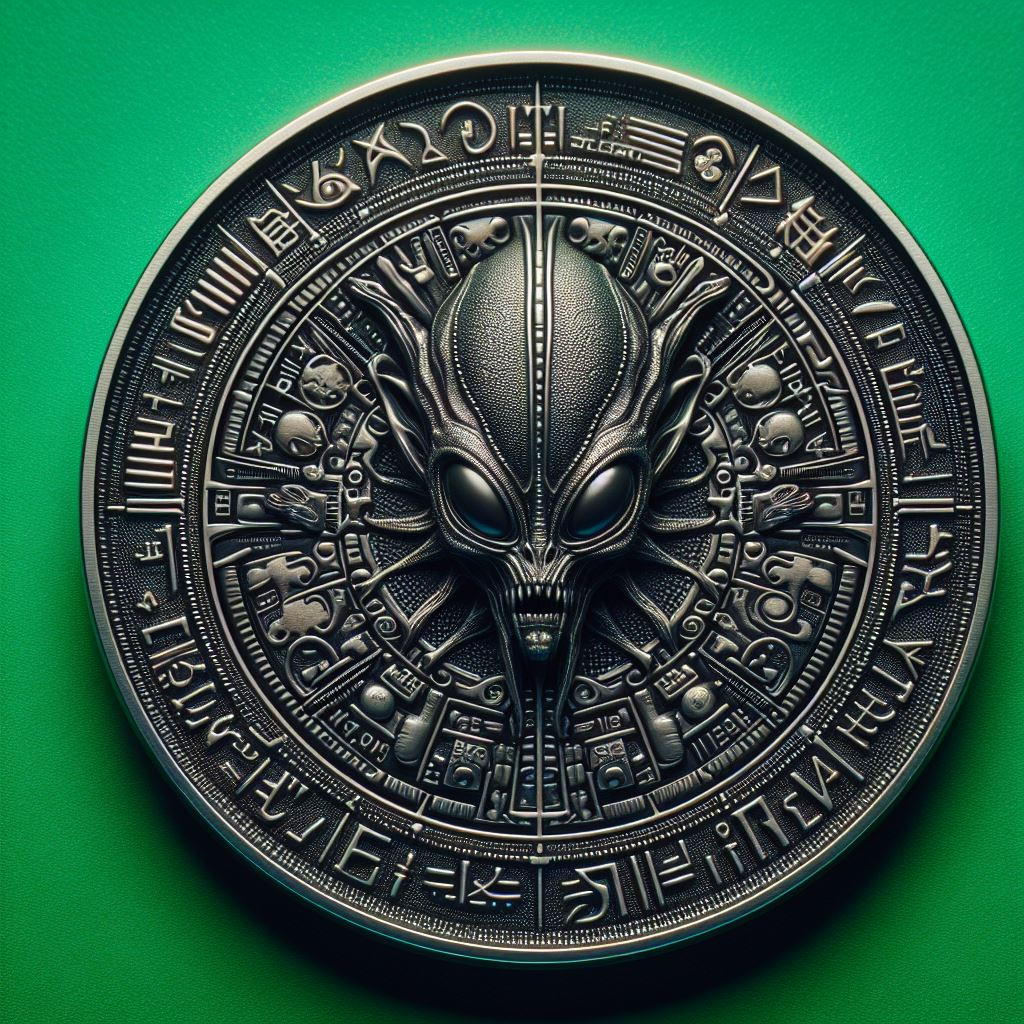
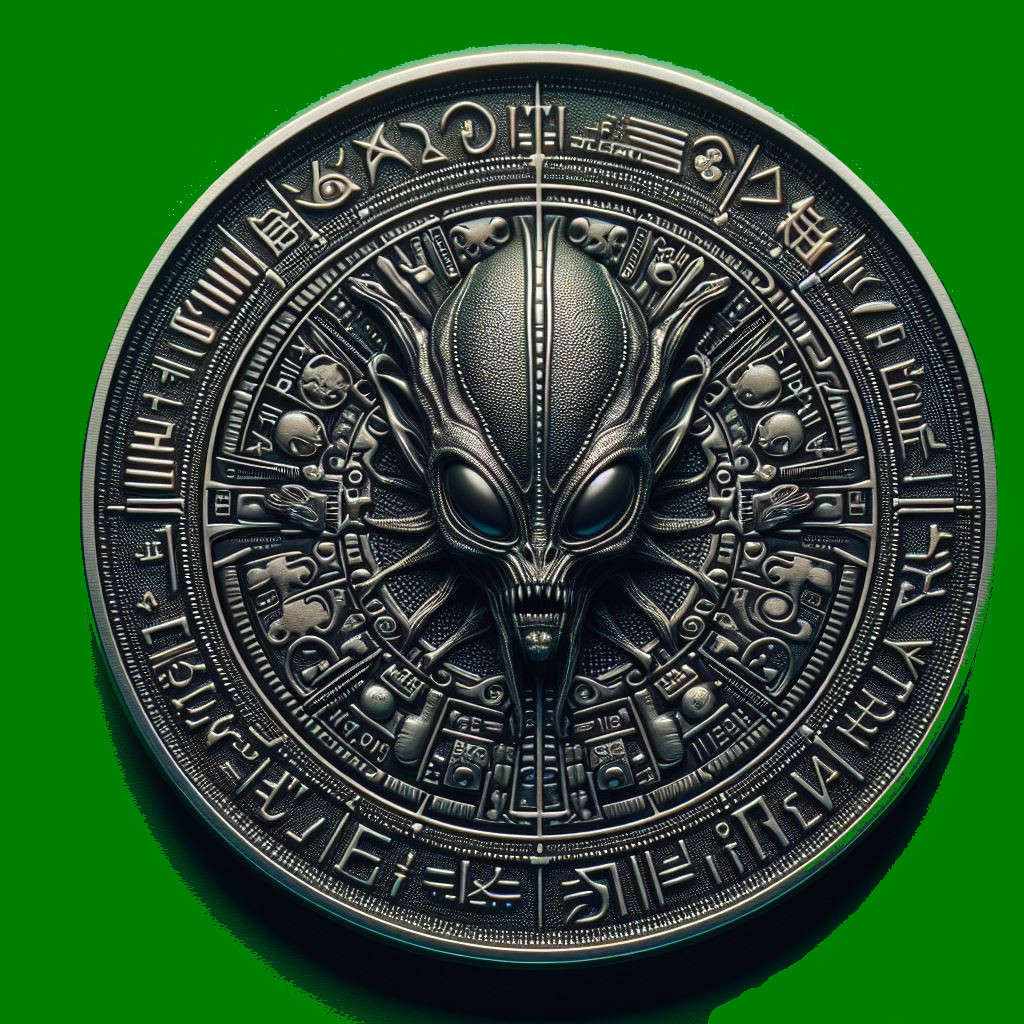
removed callback

diff --git a/script.js b/script.js
@@ -48,56 +48,15 @@ function createGrid() {
   updateScores();
 }
 
-// the below ChangeImage function tries to incorporate noLegalMovesAvailale logic. It's not there yet.
-/*
-function changeImage(index) {
-  updateScores();
-  if (!legalMovesAvailable()) {
-    alert('No legal moves available, your turn is skipped');
-    skipped += 1;
-    clicked += 1;
-    changeBanner();
-    scanLegalMoves();
-    updateScores();
-     // Increment clicked for the skipped turn
-    scanLegalMoves();
-  } else {
-    const img = document.getElementById(`box-image-${index}`);
-    if (img.src.includes('legal.jpeg')) {
-      undoStack.push(captureLayout());          //An array of arrays!!!
-      
-      const [row, col] = rowCol(index);
-      let [friend, foe, unplayed, legal] = friendOrFoe();
-      
-      if (clicked % 2 == 0) {
-          img.src = 'black.jpeg';
-          img.alt = 'black piece';
-      } else {
-          img.src = 'white.jpeg';
-          img.alt = 'white piece';
-      }
-
-
-      clicked += 1;
-      lastPlayed(row, col)
-      scanDirections(row, col, friend, foe);
-      changeBanner();
-      scanLegalMoves();
-      updateScores();
-    }
-  }
-}
-*/
-
 function changeImage(index) {
   updateScores();
   const img = document.getElementById(`box-image-${index}`);
   if (img.src.includes('legal.jpeg')) {
-    undoStack.push(captureLayout());                    //An array of arrays!!!
+    undoStack.push(captureLayout());                    //An array of arrays ( for undoMove() )
     
     const [row, col] = rowCol(index);
     let [friend, foe, unplayed, legal] = friendOrFoe();
-    setImageSrc(img);                                   // refactored/added
+    setImageSrc(img);
     clicked += 1;
     lastPlayed(row, col)
     scanDirections(row, col, friend, foe);
@@ -106,8 +65,6 @@ function changeImage(index) {
     updateScores();
   }
 }
-
-// I think this function can be tied to whomever is friend. It works now but it can probably be better?
 
 function setImageSrc(img) {
   if (clicked % 2 == 0) {
@@ -143,7 +100,6 @@ function changeBanner() {
   } 
 }
 
-
 function endGame() {
   const [whiteScore, blackScore, empty, legalScore] = calcScore();
   return (clicked === ((size * size) - 4)) || ((whiteScore + blackScore) === (size * size));
@@ -160,7 +116,7 @@ function handleButtonClick() {
 
 function restartGame() {
   if (!setSize()) {
-      alert('Please choose a grid size');
+      alert('Please choose a grid size');  // Redundant/never will be used ( see setSize() )?
       return;
   }
 
@@ -278,24 +234,7 @@ function lastPlayed (row, col) {
   document.getElementById('clicked').innerText = clicked;
 }
 
-// Tester function to display contents of the .src for the last played,
-// given the row, col
-/*
-function srcDetails (row, col) {
-  let index = getIndex(row, col);
-  let imgElement = document.getElementById(`box-image-${index}`)
-
-  if (imgElement) {
-    let srcContent = imgElement.src.split('/').pop(); // Only takes the last part of the file path
-    return srcContent;
-  } else {
-    return null;
-  }
-}
-*/
-
 function getIndex(row, col) {
-  
   let index = ((row - 1) * size) + col;
   document.getElementById('index').innerText = index;
   return index;
@@ -314,34 +253,42 @@ function boundaries(nextRow, nextCol) {
   return ((nextRow >= 1) && (nextRow <= size) && (nextCol >= 1) && (nextCol <= size));
 }
 
-function processDirections(row, col, callback) {
+function processDirections(row, col) {
+  let positions = [];
   directions.forEach(direction => {
     const [dRow, dCol] = direction;
-    let nextRow = row + dRow;
-    let nextCol = col + dCol;
-    callback(nextRow, nextCol, dRow, dCol);
+    const [nextRow, nextCol] = nextRowCol(row, col, dRow, dCol);
+    positions.push([nextRow, nextCol, dRow, dCol]);
   });
+  return positions;
+}
+
+function nextRowCol(row, col, dRow, dCol) {
+  let nextRow = row + dRow;
+  let nextCol = col + dCol;
+  return[nextRow, nextCol];
 }
 
 function scanDirections(row, col, friend, foe) {
-  processDirections(row, col, (nextRow, nextCol, dRow, dCol) => {
+  let positions = processDirections(row, col);
   
+  positions.forEach(([nextRow, nextCol, dRow, dCol]) => {
     let adjacentFoes = [];
 
     while (boundaries(nextRow, nextCol)) {
       let nextIndex = getIndex(nextRow, nextCol);
-      let imgElement = document.getElementById(`box-image-${nextIndex}`);
+      let nextImgElement = document.getElementById(`box-image-${nextIndex}`);
     
-      if (!imgElement) {
+      if (!nextImgElement) {
         break;
       }
 
-      let src = imgElement.src.split('/').pop();
+      let src = nextImgElement.src.split('/').pop();
 
       if (src.includes(friend)) {
         flipCellToFriend(adjacentFoes, friend);
-
         break; // Exit the while loop once friend is found and foes are flipped
+
       } else if (src.includes(foe)) {
         adjacentFoes.push(nextIndex);
       } else {
@@ -349,8 +296,7 @@ function scanDirections(row, col, friend, foe) {
         break; // Exit if an unplayed or legal cell is found
       }
 
-      nextRow += dRow;
-      nextCol += dCol;
+      [nextRow, nextCol] = nextRowCol(nextRow, nextCol, dRow, dCol);
     }
   });
 }
@@ -376,8 +322,9 @@ function scanLegalMoves() {
 
       if (src.includes(unplayed)) {   //Dont need to check anything other than unplayed
         let [row, col] = rowCol(i);
+        let positions = processDirections(row, col);
 
-        processDirections(row, col, (nextRow, nextCol, dRow, dCol) => {
+        positions.forEach(([nextRow, nextCol, dRow, dCol]) => {
           let potentialFoes = [];
 
           while (boundaries(nextRow, nextCol)) {
@@ -401,8 +348,7 @@ function scanLegalMoves() {
               break;
             }
 
-            nextRow += dRow;
-            nextCol += dCol;
+            [nextRow, nextCol] = nextRowCol(nextRow, nextCol, dRow, dCol);
           }
         });
       }
@@ -419,12 +365,17 @@ function clearLegalMoves() {
   }
 }
 
+/*
+
+/// The logic/code that calls this function is not working... yet. The goal is to increment 'clicked' when a player
+// has no legal moves available. This will cause the current player to lose their turn.
+
 function legalMovesAvailable() {
   const [whiteScore, blackScore, empty, legalScore] = calcScore();
-  console.log(`Legal moves available: ${legalScore > 0}`); // Debugging log
+  console.log(`Legal moves available: ${legalScore > 0}`);            // Console log
   return (legalScore > 0);
 }
-
+*/
 
 /* Execution starts here */
 changeBanner();
